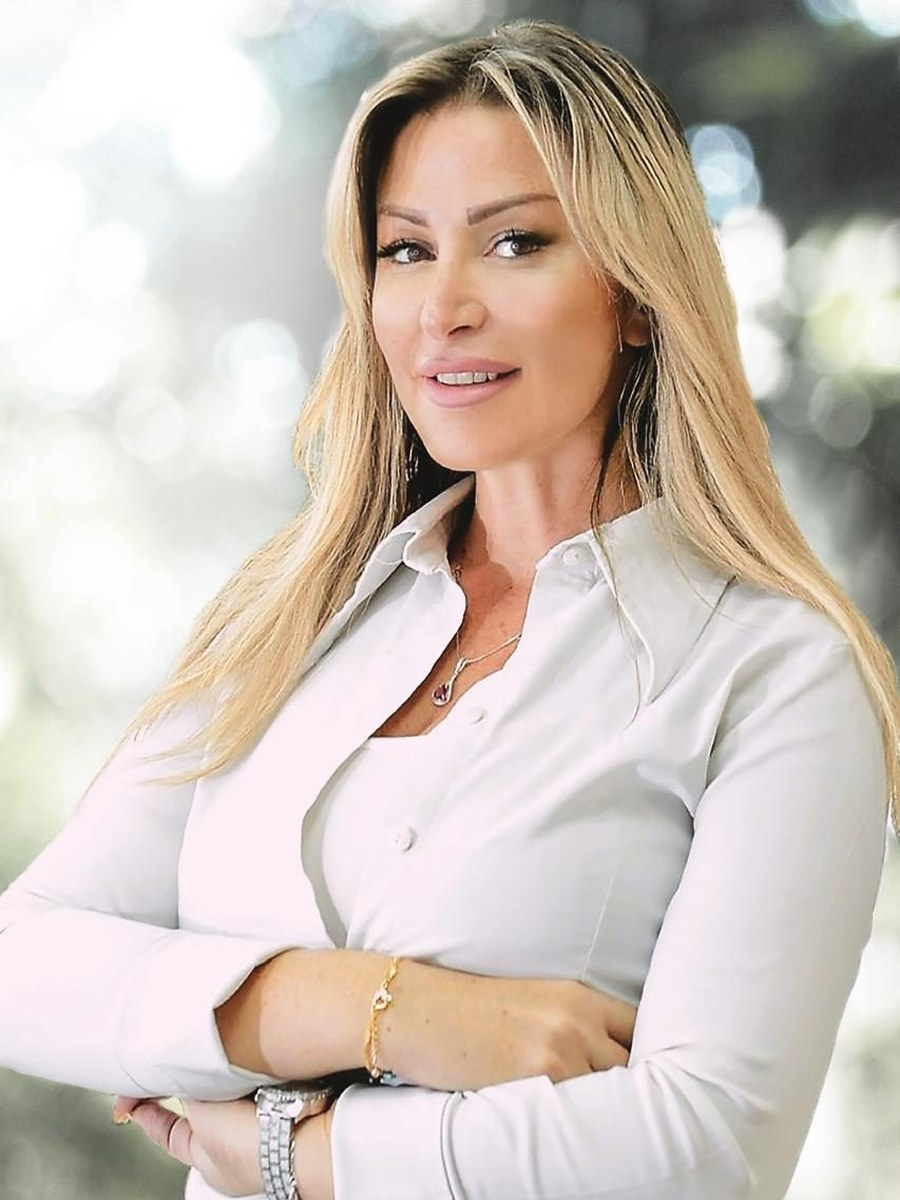
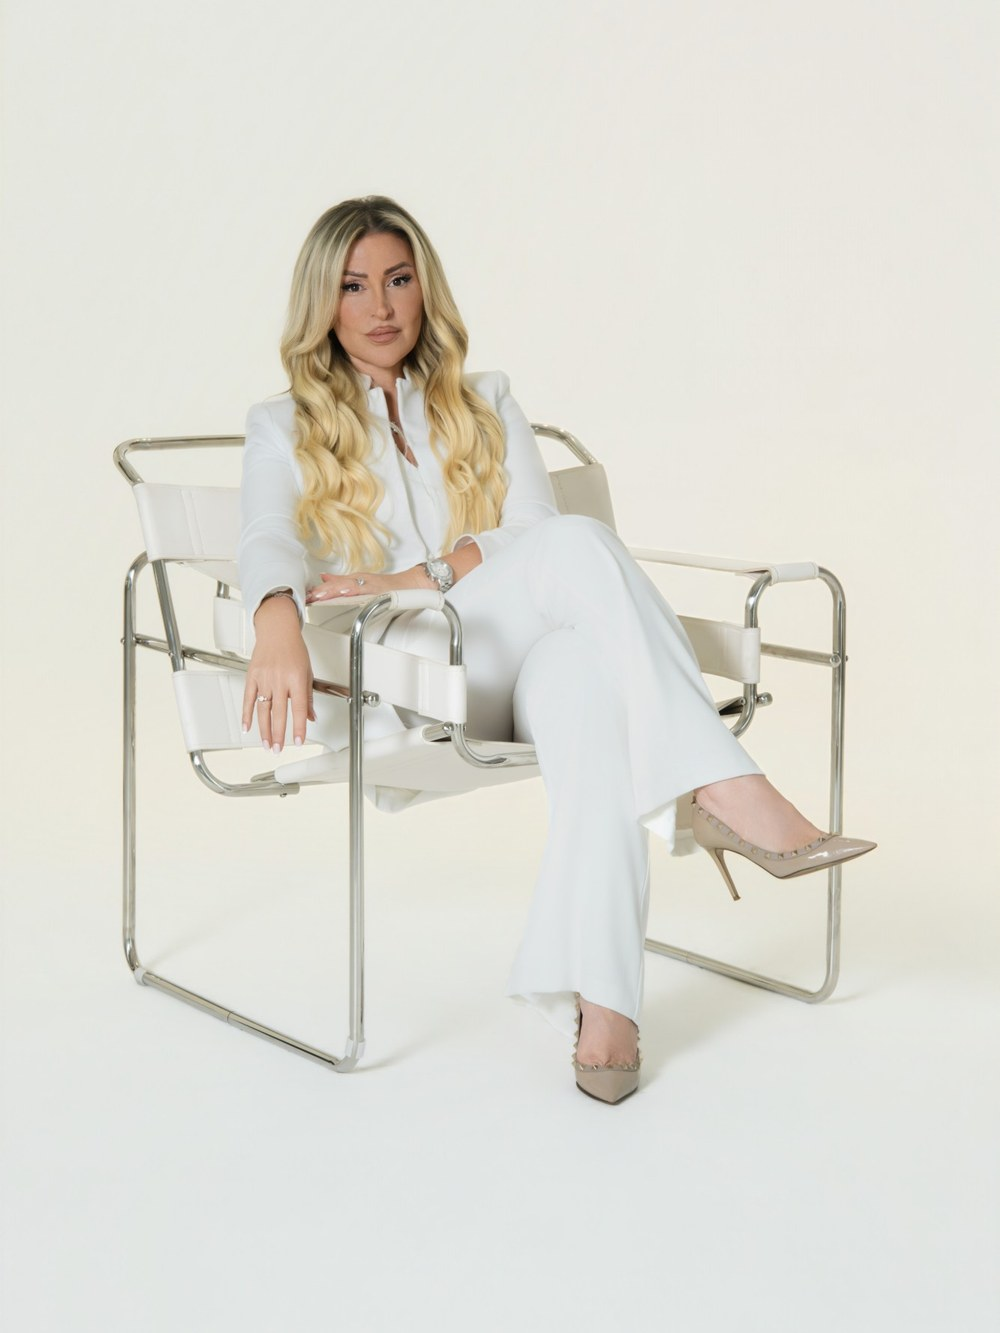
Replace founder portraits with new studio photos; add 'together' shot to About
New solo portraits for Jinane and Joelle (cropped 3:4 from the new shoot), plus a
wide together shot replacing the placeholder render in the About story section.
Cache-bust the portrait paths.

Claude-Session: https://claude.ai/code/session_01MA6AARB7kgMtULQSmpxjmu

diff --git a/ui_kits/website/data.js b/ui_kits/website/data.js
@@ -197,11 +197,14 @@
     galleries,
     comparisons,
 
+    /* A wide "together" portrait of the two founders, for the About page. */
+    teamPhoto: '../../assets/team/founders.jpg?v=1',
+
     team: [
       /* The studio is the two sisters — no wider team. Portraits supplied by the
          studio; paths are relative to ui_kits/website/. */
-      { name: 'Jinane Touma', role: 'Co-Founder', studio: 'JWT Design Studio', img: '../../assets/team/jinane.jpg' },
-      { name: 'Joelle Touma', role: 'Co-Founder · Interior Architect', studio: 'JWT Design Studio', img: '../../assets/team/joelle.jpg' },
+      { name: 'Jinane Touma', role: 'Co-Founder', studio: 'JWT Design Studio', img: '../../assets/team/jinane.jpg?v=2' },
+      { name: 'Joelle Touma', role: 'Co-Founder · Interior Architect', studio: 'JWT Design Studio', img: '../../assets/team/joelle.jpg?v=2' },
     ],
 
     /* Intentionally empty — no invented awards or client quotes.

diff --git a/ui_kits/website/AboutPage.jsx b/ui_kits/website/AboutPage.jsx
@@ -22,8 +22,8 @@
         {/* Portrait + story */}
         <Section bg="page" pad="sm" style={{ paddingTop: 0 }}>
           <div className="jwt-rg" style={{ display: 'grid', gridTemplateColumns: '1fr 1fr', gap: 'var(--space-8)', alignItems: 'center' }}>
-            <RevealImage style={{ aspectRatio: '4 / 5', borderRadius: 'var(--radius-md)' }}>
-              <img src={window.JWT_IMG.ronLounge} alt="JWT Design Studio interior visualisation" style={{ width: '100%', height: '100%', objectFit: 'cover' }} />
+            <RevealImage style={{ aspectRatio: '3 / 2', borderRadius: 'var(--radius-md)' }}>
+              <img src={D.teamPhoto} alt={`${D.studio.founders}, founders of JWT Design Studio`} style={{ width: '100%', height: '100%', objectFit: 'cover' }} />
             </RevealImage>
             <div>
               <Eyebrow dot>The sisters</Eyebrow>

diff --git a/ui_kits/website/index.html b/ui_kits/website/index.html
@@ -26,10 +26,10 @@
 <script src="../../_ds_bundle.js?v=4"></script>
 <script src="projects-data.js?v=3"></script>
 <script src="review-overrides.js?v=2"></script>
-<script src="data.js?v=10"></script>
+<script src="data.js?v=11"></script>
 <script type="text/babel" src="kit-ui.jsx?v=3"></script>
 <script type="text/babel" src="HomePage.jsx?v=8"></script>
-<script type="text/babel" src="AboutPage.jsx?v=4"></script>
+<script type="text/babel" src="AboutPage.jsx?v=5"></script>
 <script type="text/babel" src="ExpertisePage.jsx?v=4"></script>
 <script type="text/babel" src="ProjectsPage.jsx?v=5"></script>
 <script type="text/babel" src="ProjectPage.jsx?v=9"></script>
